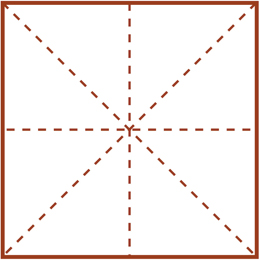
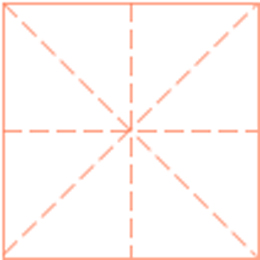
mane_bg change

diff --git a/css/index.css b/css/index.css
@@ -113,23 +113,14 @@ body{
 	width:260px;
 	height:260px;
 	background: url(../images/name_bg.jpg) no-repeat;
-	// border:1px solid #ddd;
-}
-.cont-box .host .host-box:hover{
-	// border:1px solid #ff8c69;
-}
-// .cont-box .host .host-box:hover>a{
-// 	color: #ff8c69;
-// }
-.cont-box .host:hover .host-box>a{
-	color: #ff8c69;
 }
 .cont-box .host .host-box>a{
 	display:block;
 	line-height: 260px;
 	text-align: center;
 	font-size:160px;
-	color:#888;
+	font-weight: 200;
+	color:#999;
 	text-decoration:none;
 	cursor:pointer;
 }
